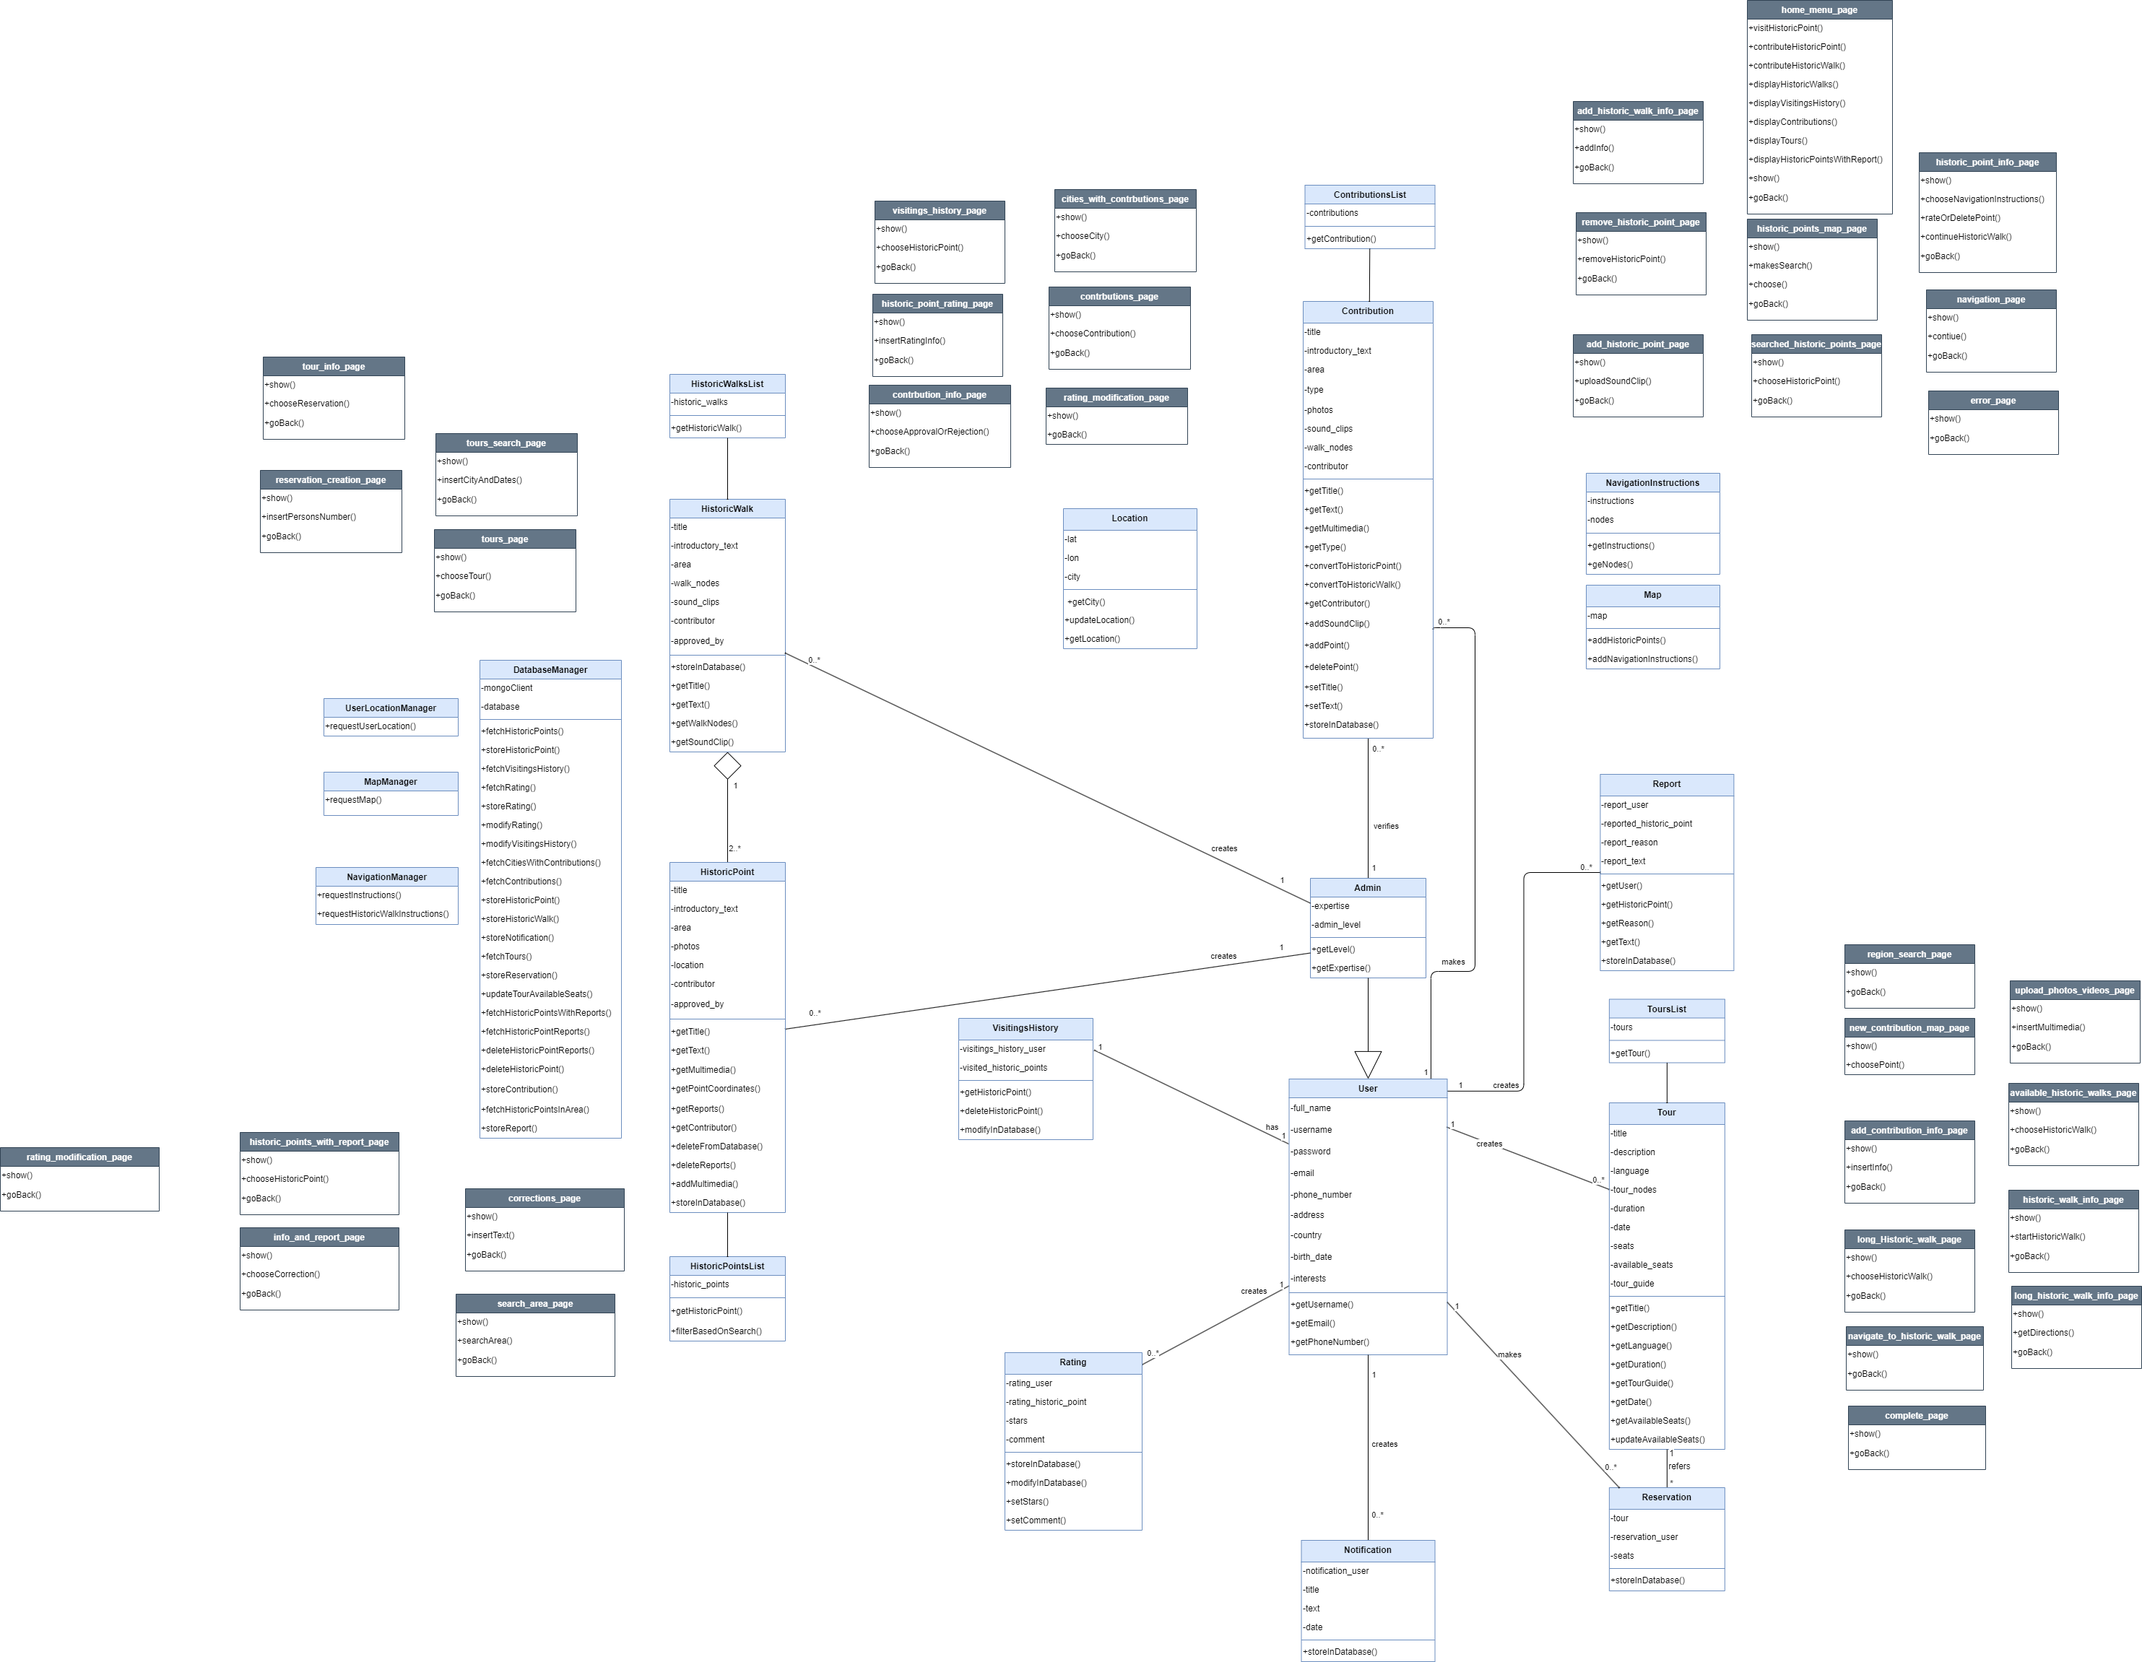
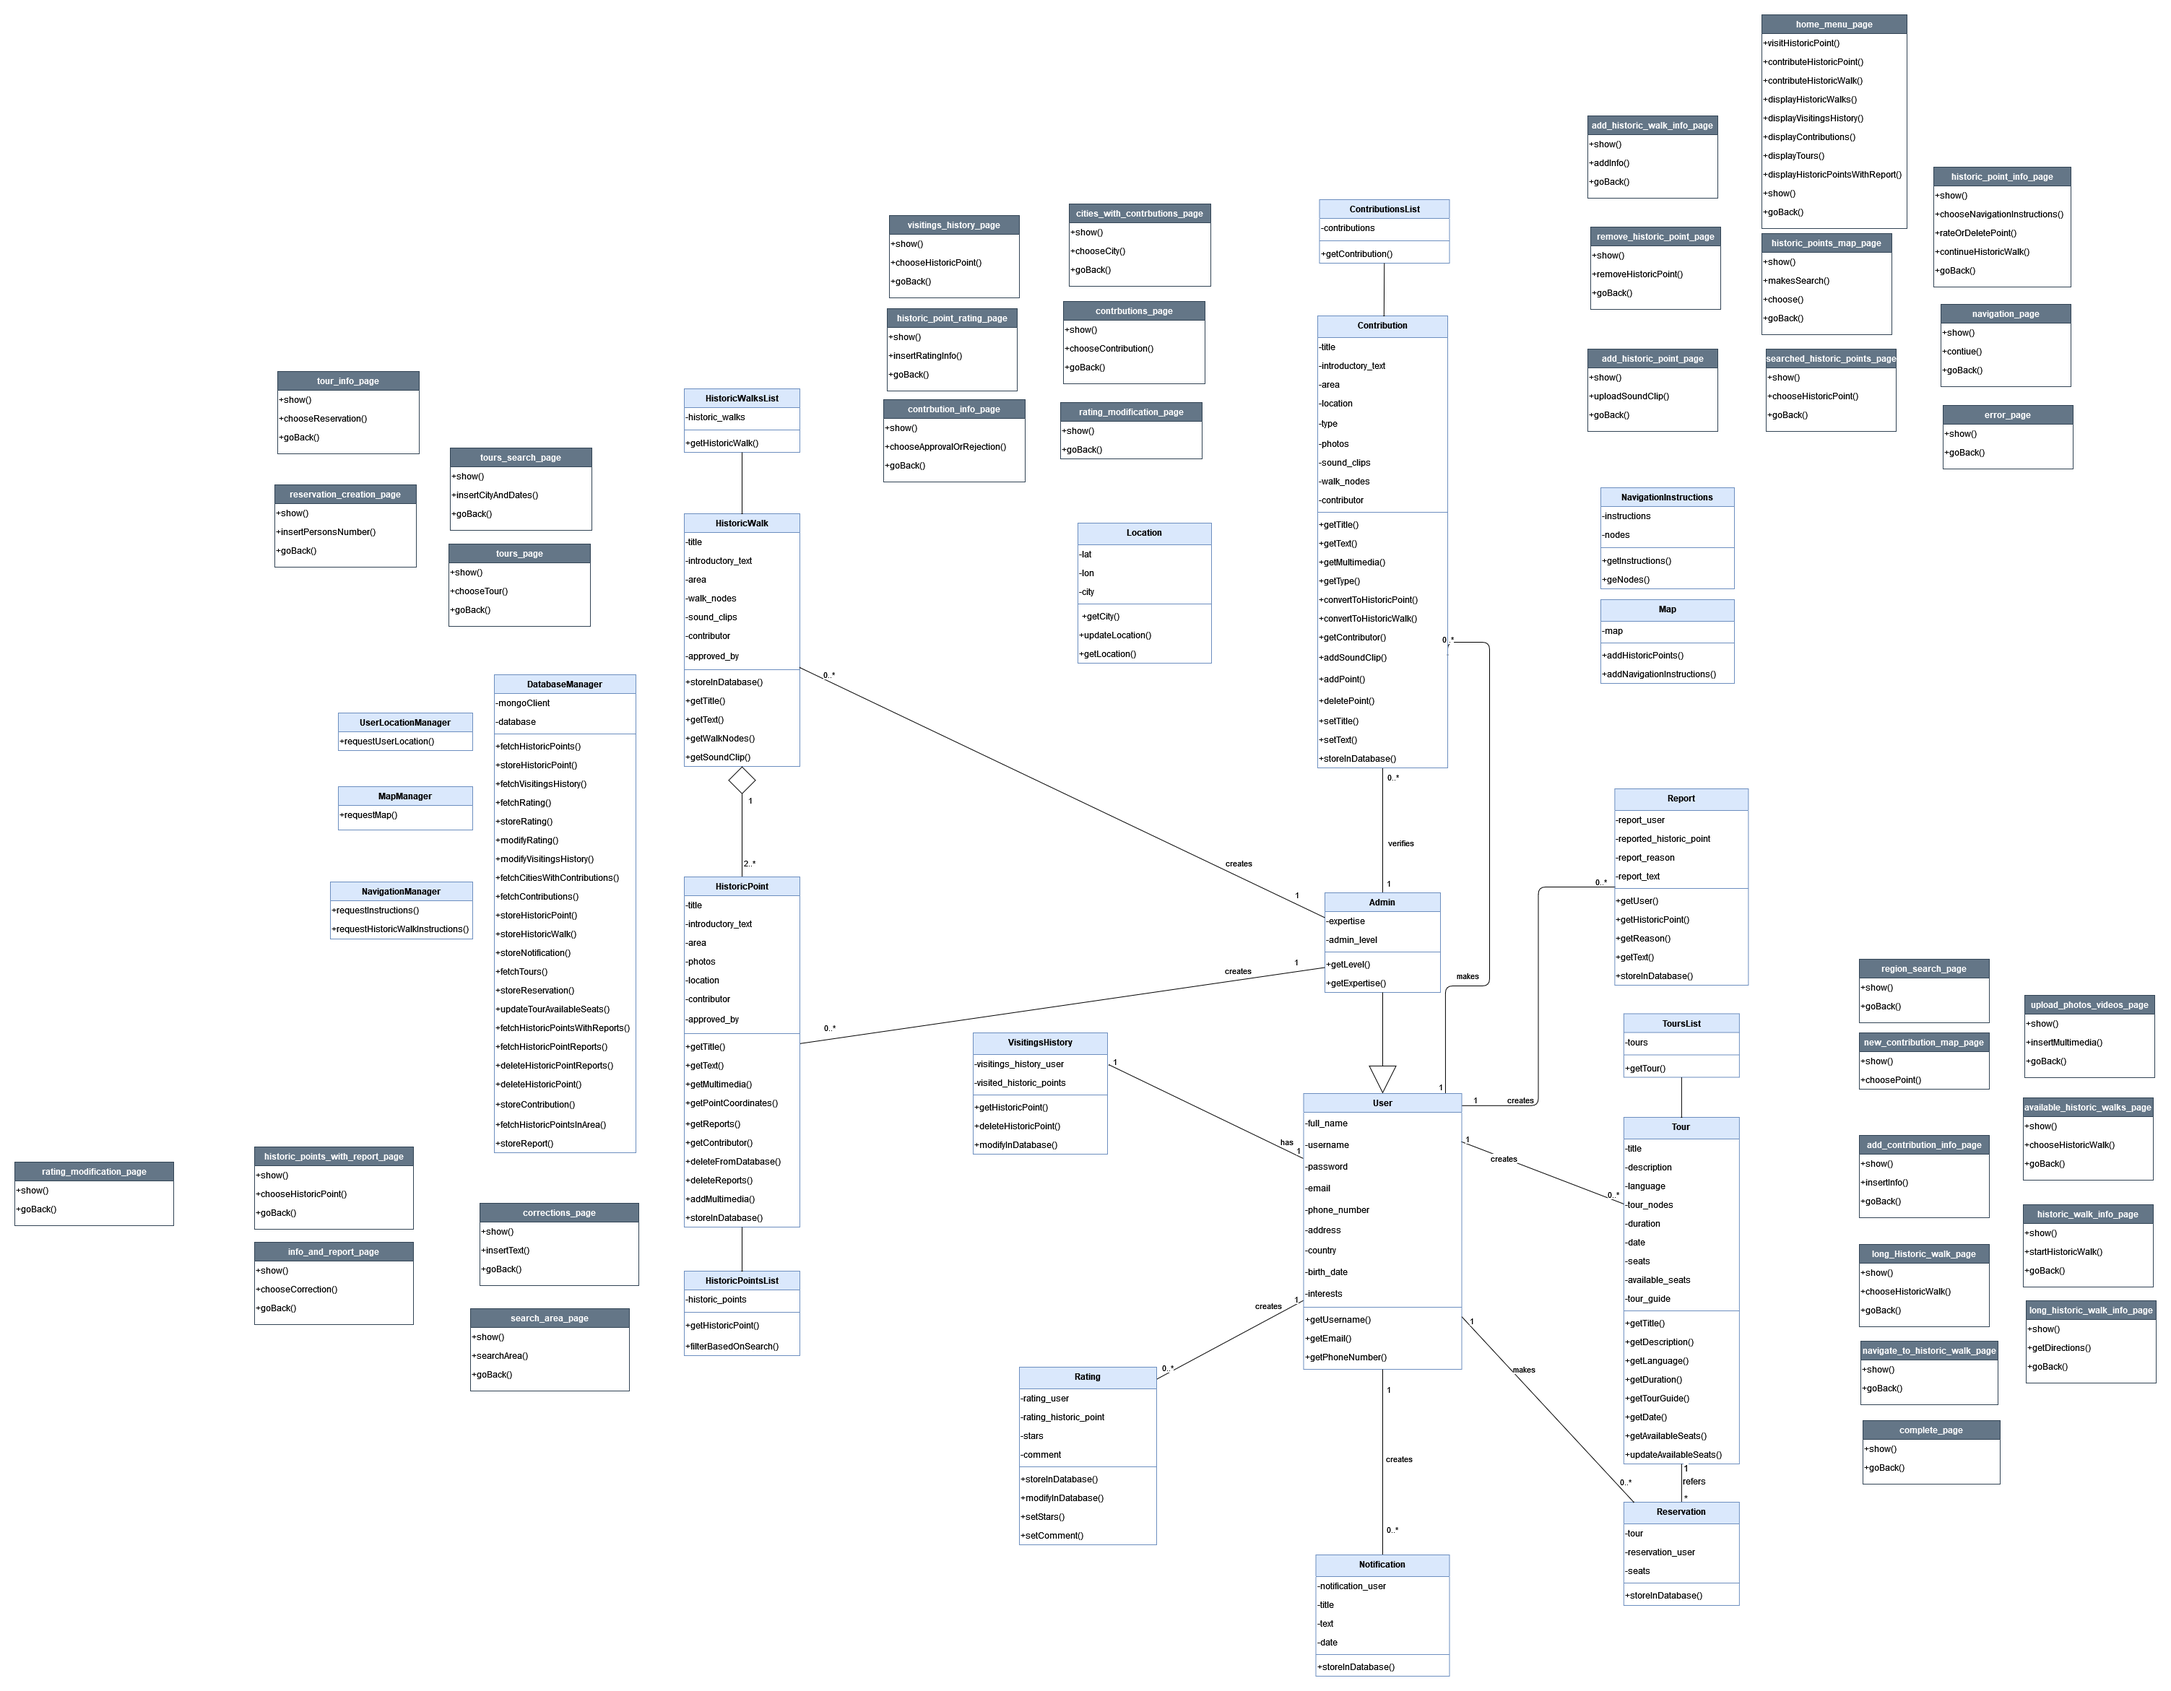
class and domain attribute added in contribution class

diff --git a/CODE/cooltoor/app/src/main/java/com/cooltoor/HistoricWalk.java b/CODE/cooltoor/app/src/main/java/com/cooltoor/HistoricWalk.java
@@ -2,7 +2,7 @@ package com.cooltoor;
 
 import java.util.ArrayList;
 import java.io.*;
-/*
+
 public class HistoricWalk {
     private String title;
     private String introductory_text;
@@ -12,7 +12,7 @@ public class HistoricWalk {
     private User contributor;
     private User approved_by;
 
-    public HistoricWalk(String title, String introductory_text, String area, ArrayList<HistoricPoint> walk_nodes /*,ArrayList<File> sound_clips, User contributor, User approved_by) {
+    public HistoricWalk(String title, String introductory_text, String area, ArrayList<HistoricPoint> walk_nodes, ArrayList<File> sound_clips, User contributor, User approved_by) {
         this.title = title;
         this.introductory_text = introductory_text;
         this.area = area;
@@ -23,8 +23,8 @@ public class HistoricWalk {
     }
 
     public void storeInDatabase(){
-        DatabaseManager dbm = new DatabaseManager();
-        dbm.storeHistoricWalk(this);
+        /*DatabaseManager dbm = new DatabaseManager();
+        dbm.storeHistoricWalk(this);*/
     }
 
     public String getTitle() {
@@ -43,6 +43,4 @@ public class HistoricWalk {
         return this.sound_clips.get(i);
     }
 
-
 }
-*/

diff --git a/CODE/cooltoor/app/src/main/java/com/cooltoor/Contribution.java b/CODE/cooltoor/app/src/main/java/com/cooltoor/Contribution.java
@@ -1,5 +1,5 @@
 package com.cooltoor;
-/*
+
 import java.util.ArrayList;
 import java.io.*;
 
@@ -44,13 +44,13 @@ public class Contribution{
 
     public HistoricPoint convertToHistoricPoint(Admin admin) {
         HistoricPoint new_historic_point = new HistoricPoint(this.title, this.introductory_text, this.area, this.photos, this.location, this.contributor, admin);
-        this.deleteFromDatabase();
+        //this.deleteFromDatabase();
         return new_historic_point;
     }
 
     public HistoricWalk convertToHistoricWalk(Admin admin) {
         HistoricWalk new_historic_walk = new HistoricWalk(this.title, this.introductory_text, this.area, this.walk_nodes, this.sound_clips, this.contributor, admin);
-        this.deleteFromDatabase();
+        //this.deleteFromDatabase();
         return new_historic_walk;
     }
 
@@ -83,9 +83,8 @@ public class Contribution{
     }
 
     public void storeInDatabase() {
-        DatabaseManager dbm = new DatabaseManager();
-        dbm.storeContribution(this);
+        /*DatabaseManager dbm = new DatabaseManager();
+        dbm.storeContribution(this);*/
     }
 
 }
-*/

diff --git a/CODE/cooltoor/app/src/main/java/com/cooltoor/Tour.java b/CODE/cooltoor/app/src/main/java/com/cooltoor/Tour.java
@@ -57,5 +57,8 @@ public class Tour{
 
     public void updateAvailableSeats(int seats){
         this.available_seats -= seats;
+
+        DatabaseManager dbm = new DatabaseManager();
+
     }
 }
